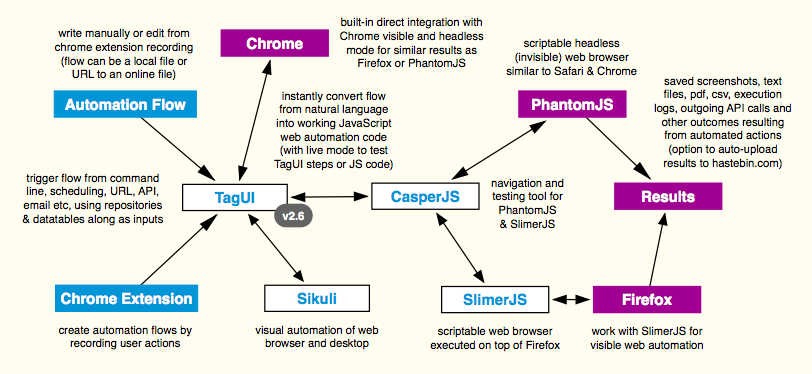
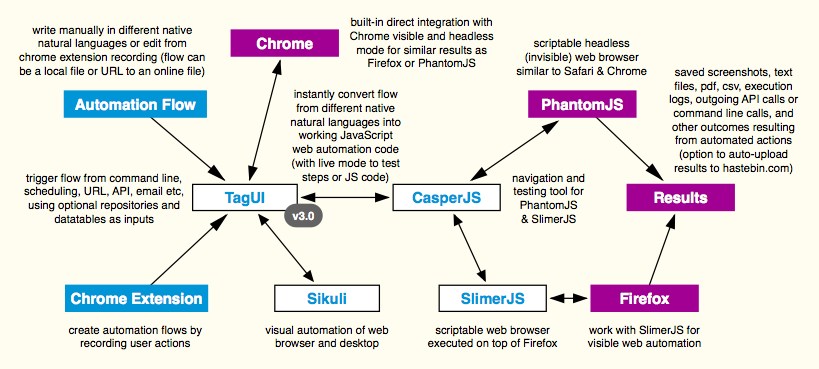
updating to v3.0 - native languages release

diff --git a/README.md b/README.md
@@ -6,18 +6,17 @@
 
 ### FEATURES
 - automate Chrome, Firefox, PhantomJS
-- visual automation of website and desktop
+- visual automation of websites and desktop
 - unzip and run on macOS, Linux, Windows
-- natural language with JavaScript support
-- write in over 20 different native languages
+- write in 20+ native languages & JavaScript
 - Chrome extension for recording actions
 - run by schedule, command line, API URL
 - advanced API / command calls to services
 
 # Why This
-The goal of web automation is to reproduce cognitive interactions that you have with websites so that your laptop or server can do it for you, base on your schedule or conditions. TagUI helps you rapidly automate your repetitive or time-critical tasks - use cases include process automation, data acquisition and testing of web apps. Read on for more info or jump right into the [flow samples section](https://github.com/tebelorg/TagUI#flow-samples) to see examples of TagUI automation in natural-language-like syntax.
+The goal of web automation is to reproduce cognitive interactions that you have with websites so that your laptop or server can do it for you, base on your schedule or conditions. TagUI helps you rapidly automate your repetitive or time-critical tasks - use cases include process automation, data acquisition and testing of web apps.
 
-This is a full-feature and free open-source tool, so there's nothing to upgrade to or any paid subscription. To feedback suggestions or bugs, [raise an issue](https://github.com/tebelorg/TagUI/issues) or email ken@tebel.org. Originally developed by a test automation engineer to avoid writing chunks of code when automating web interactions.
+Read on for more info or jump right into the [flow samples section](https://github.com/tebelorg/TagUI#flow-samples) to see examples of TagUI automation in natural-language-like syntax. This is a full-feature and free open-source tool, so there's nothing to upgrade to or any paid subscription. To feedback suggestions or bugs, [raise an issue](https://github.com/tebelorg/TagUI/issues) or email ken@tebel.org. Originally developed by a test automation engineer to avoid writing chunks of code when automating web interactions.
 
 ### HOW IT WORKS
 TagUI converts your intentions in different native languages into lines of working JavaScript code that perform web automation. Under the hood, it uses Chrome DevTools Protocol, Sikuli, CasperJS, PhantomJS & SlimerJS.
@@ -241,11 +240,11 @@ size|10000|1000|100000
 direction|BUY|SELL|BUY
 
 # Developers Reference
-TagUI is a young tool and it tries to do the task of automating web interactions very well (especially process automation). It's designed to make prototyping, deployment and maintenance of web automation easier by minimizing iteration time for each phase. If you are a Node.js developer, be sure to check out [Puppeteer project](https://github.com/GoogleChrome/puppeteer). It's developed by Google Chrome team and the synergy made possible by the tight integration is ushering in a new era of browser automation.
+TagUI is a young tool and it tries to do the task of automating web interactions very well (especially process automation). It's designed to make prototyping, deployment and maintenance of web automation easier by minimizing iteration time for each phase. If you are a Node.js developer, be sure to check out [Puppeteer project](https://github.com/GoogleChrome/puppeteer) by Google Chrome team.
 
 While TagUI can be used for test automation or data-scraping, there are other popular open-source tools which may be better fits for these goals. For test automation, there are very established open-source tools/frameworks with mature and supportive ecosystems. Be sure to check out what's current from resources such as this [test automation list](https://github.com/atinfo/awesome-test-automation). For data-scraping, there are various open-source projects just to [handle that very well](https://github.com/search?utf8=✓&q=topic%3Acrawler&type=Repositories).
 
-Some future ideas for TagUI is integration with AI open-source tools, more advanced visual automation with Sikuli, and improved natural language processing. Also, as PhantomJS is no longer maintained, maybe in a few years it will be necessary to migrate TagUI from CasperJS + PhantomJS engine to Puppeteer + Node.js engine. That will require users to have Node.js development environment instead of TagUI's current form where it can be unzipped and run directly.
+Some future ideas for TagUI is integration with AI open-source tools, advanced visual automation with Sikuli, and improved natural language processing. Also, as PhantomJS is no longer maintained, maybe in a few years it will be necessary to migrate TagUI from CasperJS + PhantomJS engine to Puppeteer + Node.js engine. That will require users to have Node.js development environment instead of TagUI's current form where it can be unzipped and run directly.
 
 ### API
 Automation flows can also be triggered via API URL. TagUI has an API service and runner for managing a queue of incoming requests via API. To set up, add a crontab entry on your server with the desired frequency to check and process incoming service requests. Below will check every 15 minutes and run pending flows in the queue. If there's an automation in progress, TagUI will wait for the next check instead of concurrently starting a new run.
@@ -343,6 +342,7 @@ tagui_helper.php|command line natural language parser
 tagui_helper|generated normal TagUI command to run
 tagui_helper.cmd|same as above but for Windows platform
 translate.php|translation engine for native languages
+translate.log|translation in English reference language
 transpose.php|transpose conventional datatable csv
 sleep.php|allow adding execution pause on Windows
 
